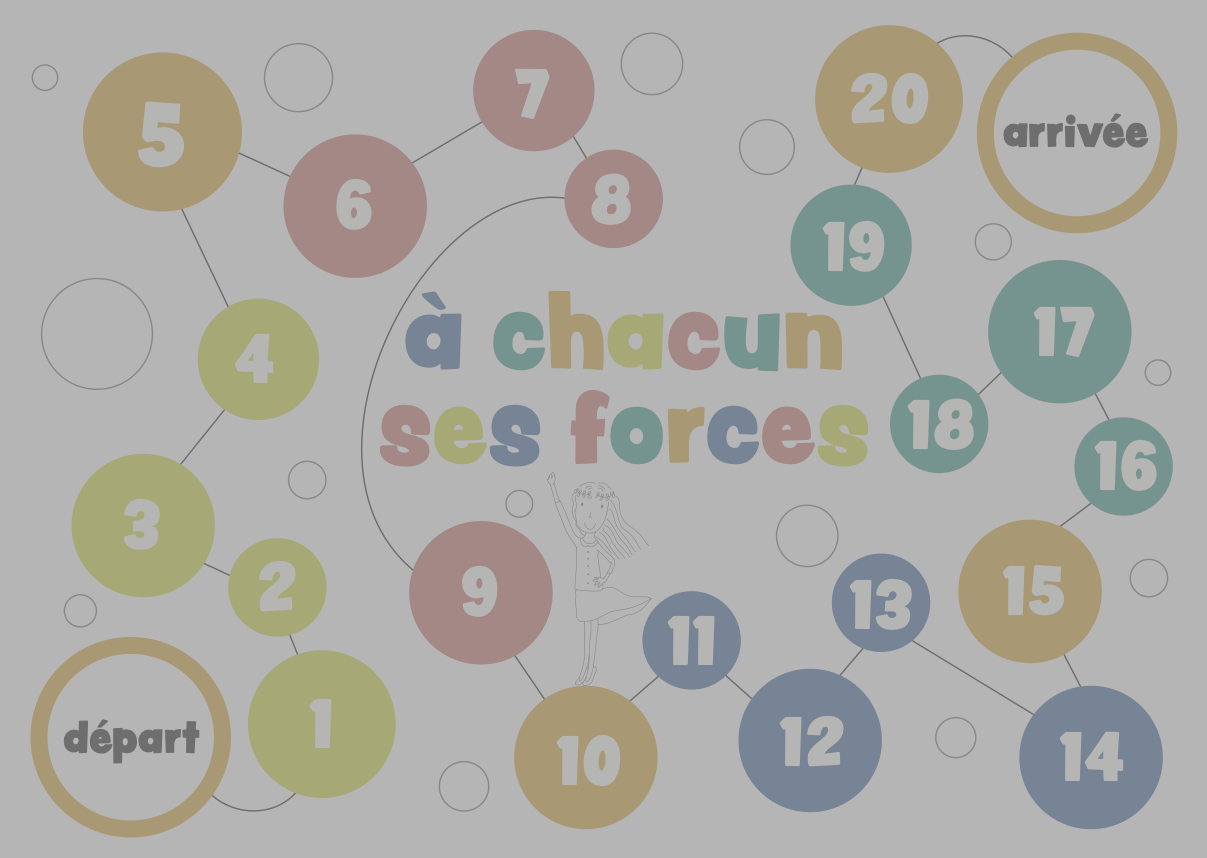
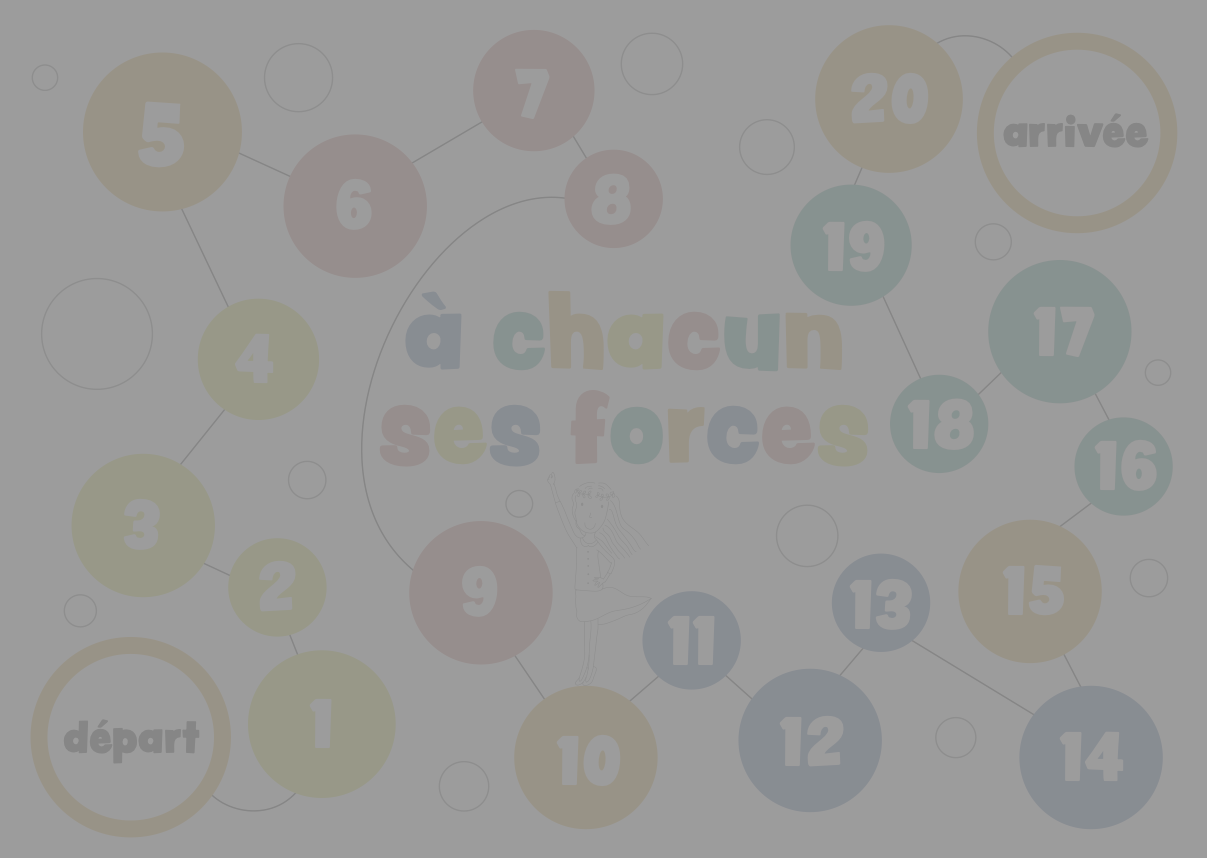
page de titre

diff --git a/index.html b/index.html
@@ -17,7 +17,7 @@
 
 
 
-class: hide_logo, title-slide, inverse, bottom
+class: hide_logo, title-slide, bottom
 background-image: url(img/0.png)
 background-size: cover
 
